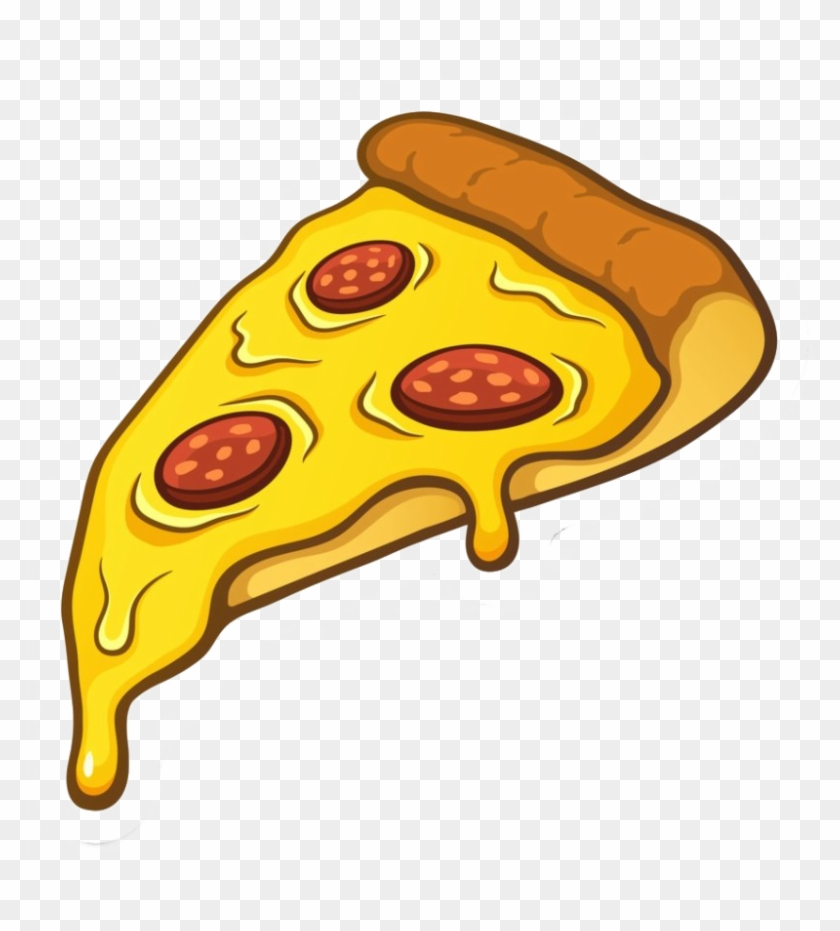
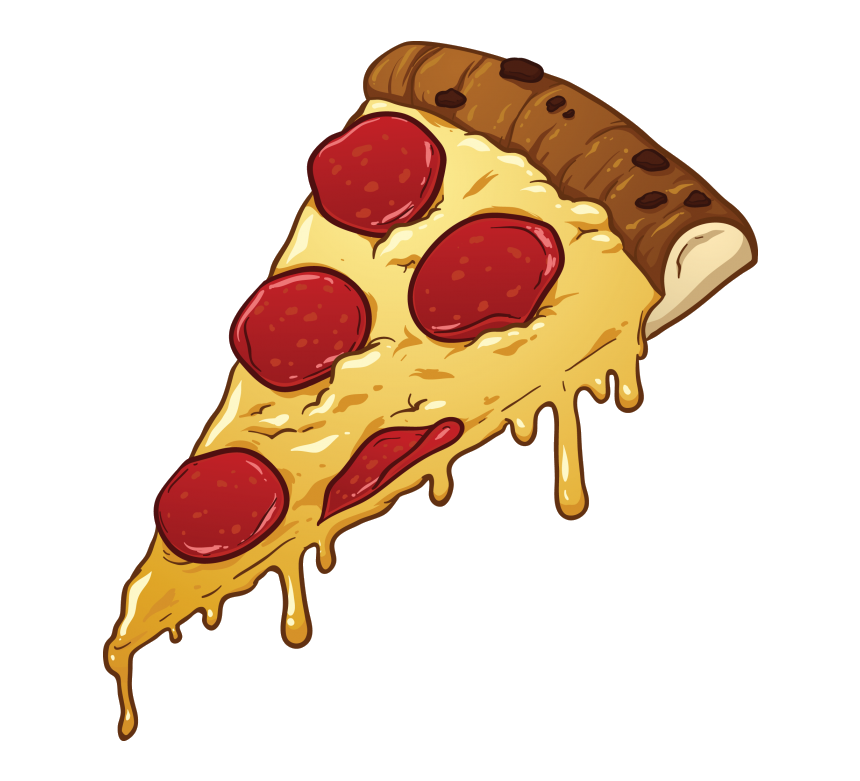
Add transparent images

diff --git a/index.html b/index.html
@@ -35,7 +35,7 @@
         <td class = "HeadingCell">F</td>
         <td class = "FullCell">
             <img src="images/pizza.png" alt="Pizza Slice"/>
-            <img src="images/cheese.jpg" alt="Cheese Slice"/>
+            <img src="images/cheese.png" alt="Cheese Slice"/>
         </td>
       </tr>
     </table>
